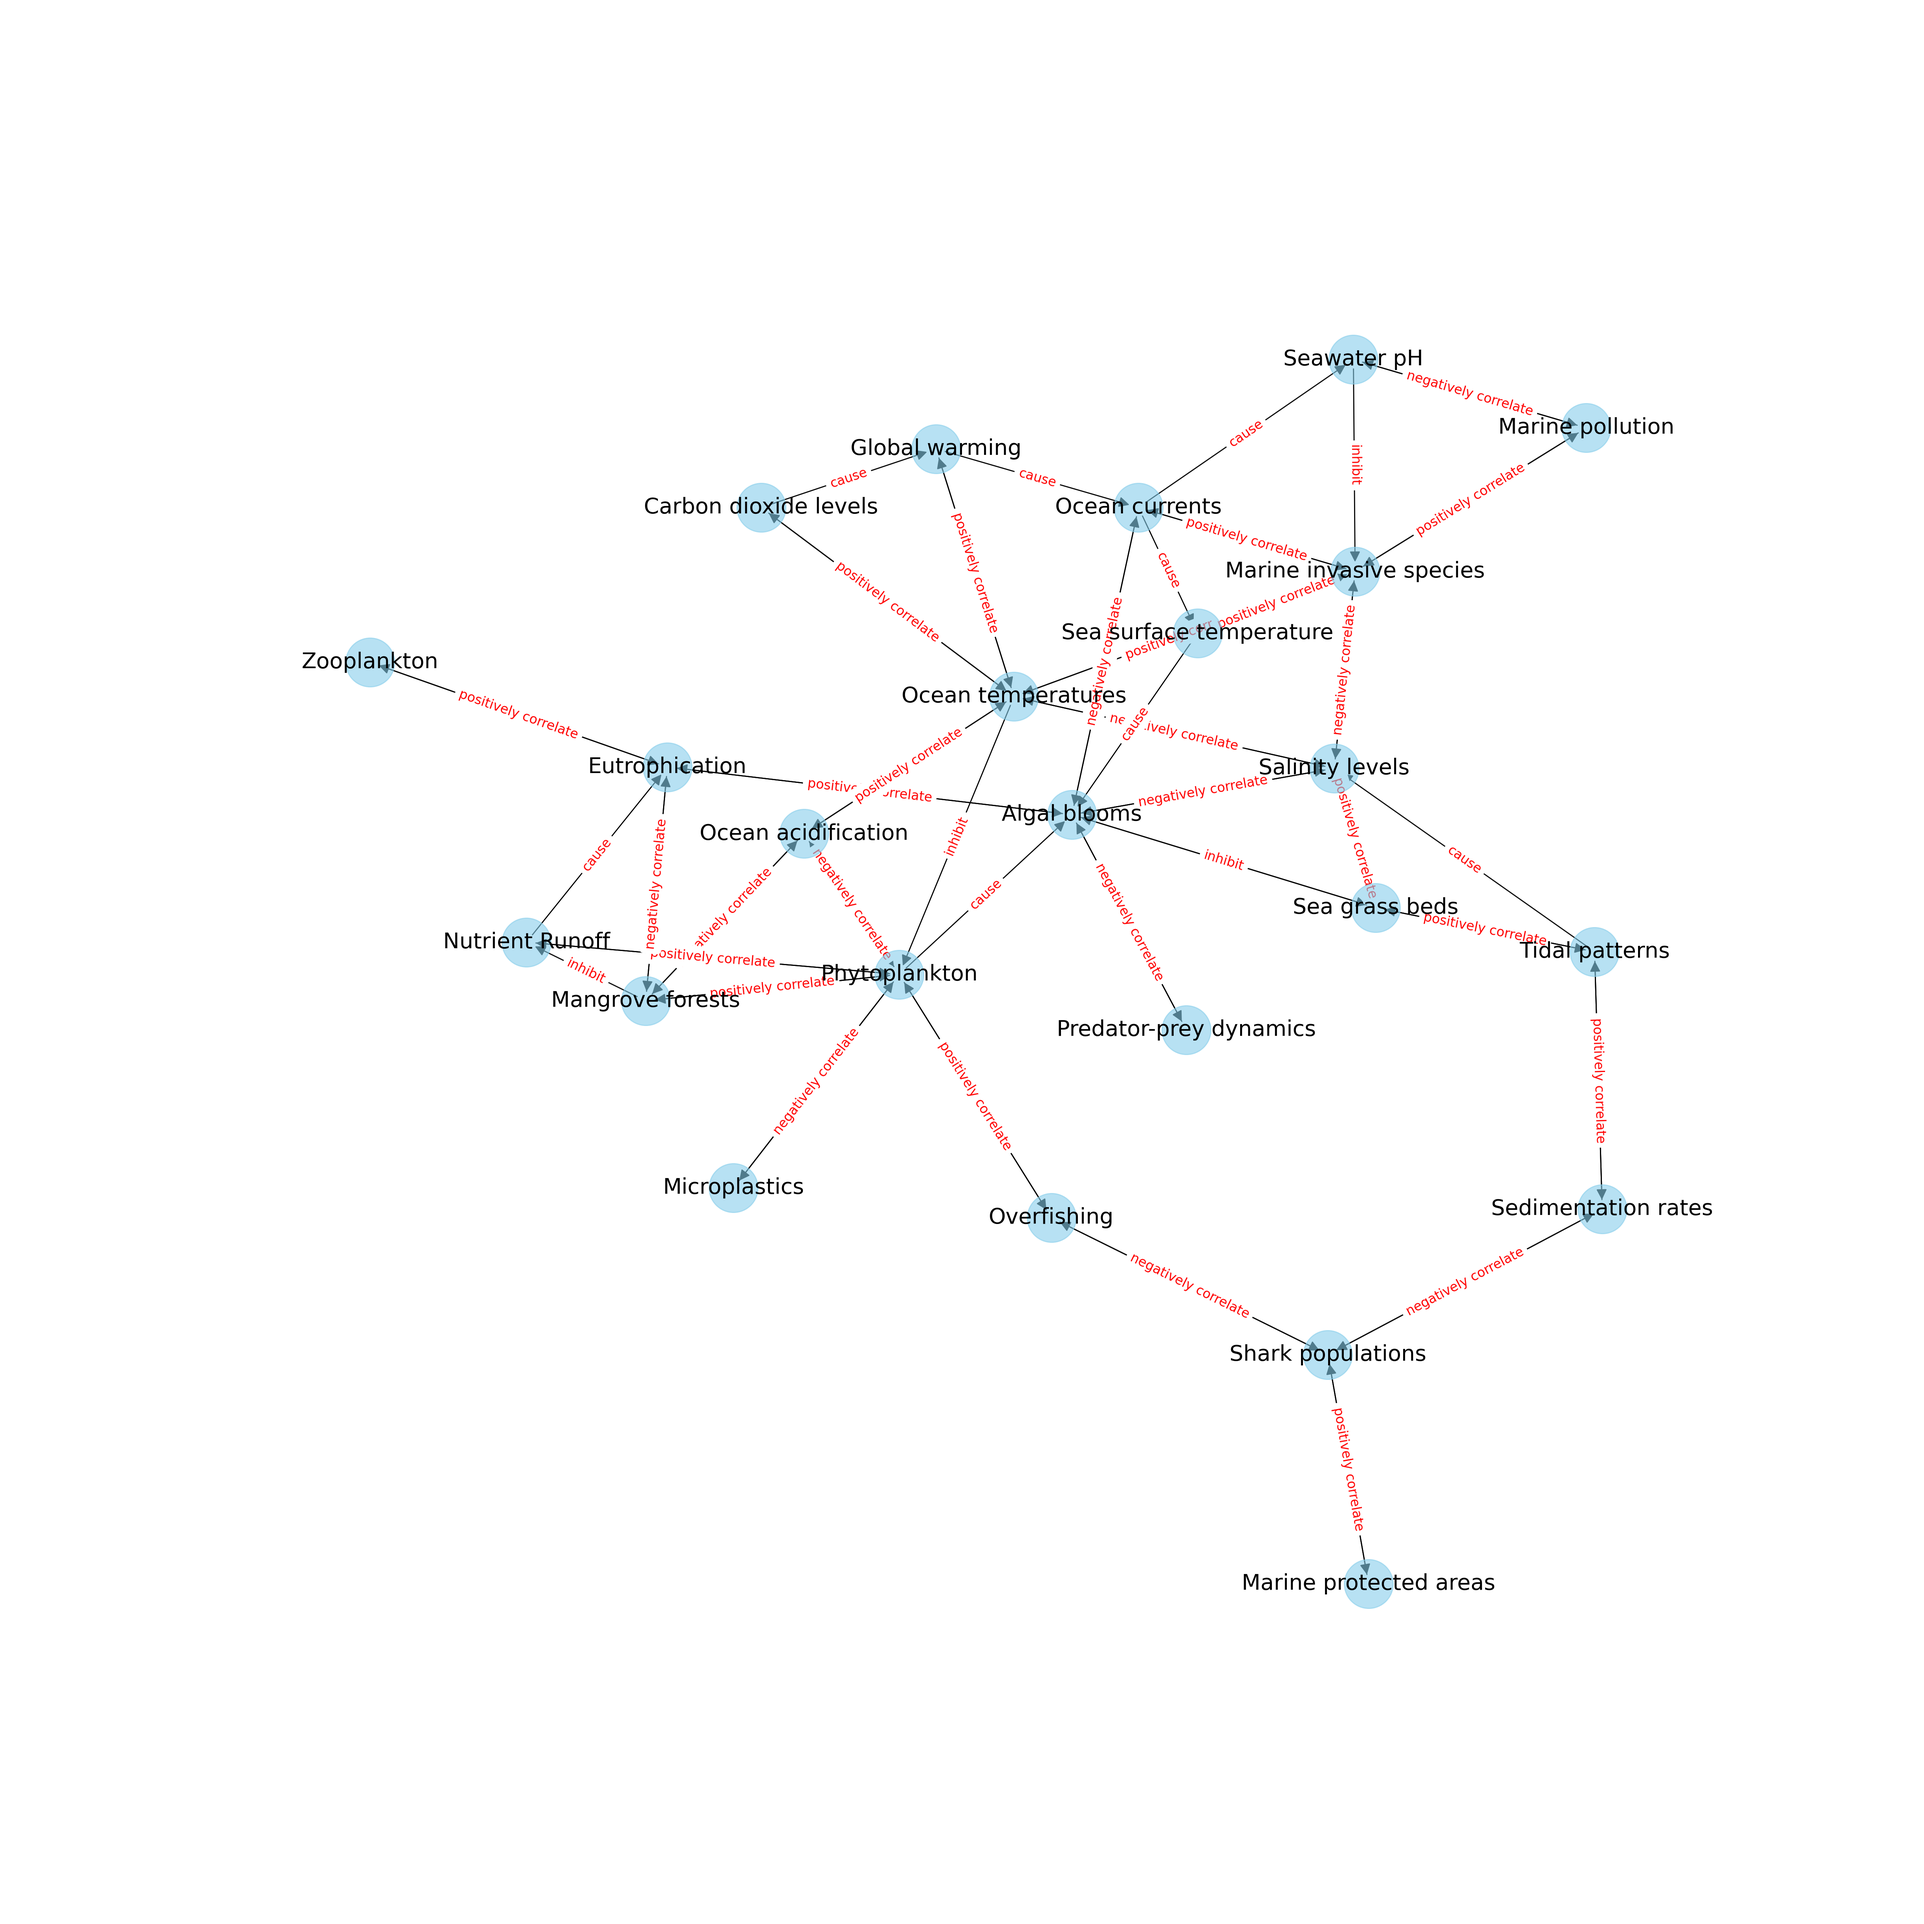
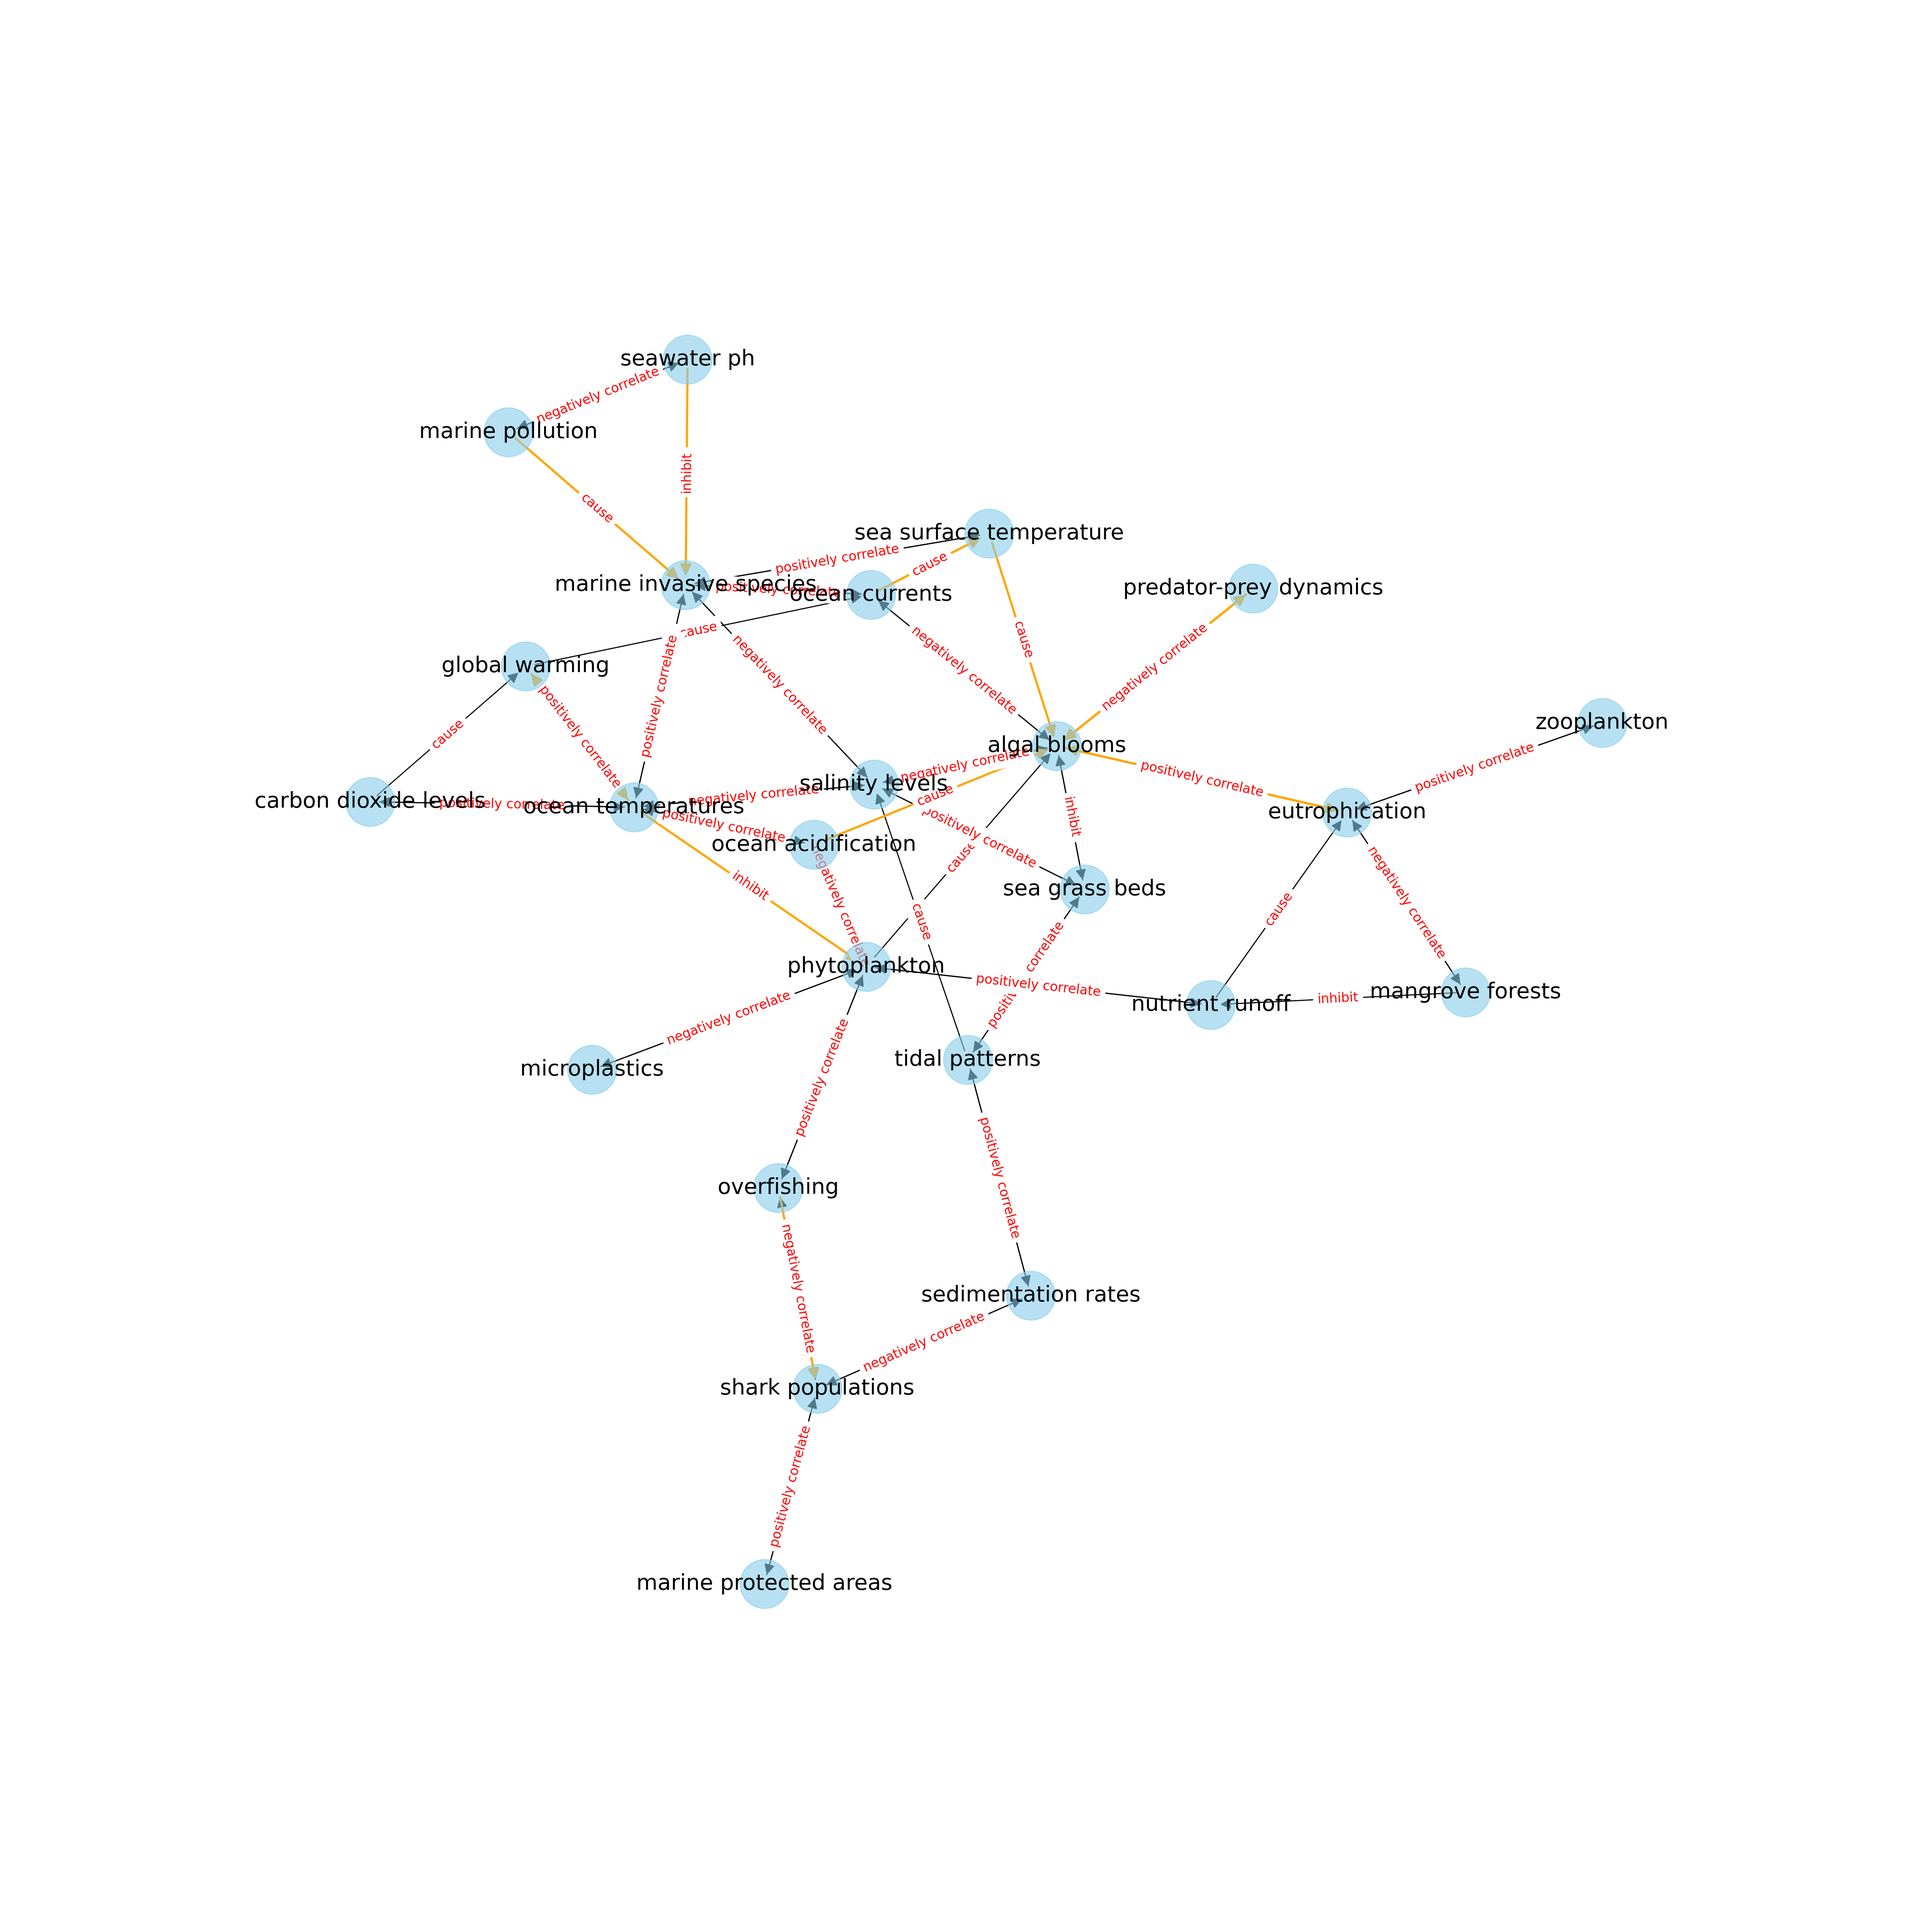
Added new plotting code; make lowercase default

diff --git a/relation_suite/models/relationships.py b/relation_suite/models/relationships.py
@@ -1,7 +1,7 @@
 import json
 import networkx as nx
 import matplotlib.pyplot as plt
-from typing import Dict, Set, Tuple
+from typing import Dict, List, Optional, Set, Tuple
 from relation_suite.models.relationship_type import RelationshipType
 from networkx.drawing.nx_agraph import graphviz_layout
 from math import sqrt
@@ -16,15 +16,23 @@ class Relationships:
     }
 
     def __init__(
-        self, relationship_types: Set[RelationshipType] = DEFAULT_RELATIONSHIPS
+        self,
+        relationship_types: Set[RelationshipType] = DEFAULT_RELATIONSHIPS,
+        lowercase: bool = True,
     ) -> None:
         self.relationship_types = {rel.name: rel for rel in relationship_types}
         self.relationships: Dict[Tuple[str, str], str] = {}
+        self.lowercase = lowercase
 
     def add(self, entity_1: str, entity_2: str, relationship: str) -> bool:
         if relationship not in self.relationship_types:
             print(f"Relationship type '{relationship}' is not allowed.")
             return False
+
+        if self.lowercase:
+            entity_1 = entity_1.lower()
+            entity_2 = entity_2.lower()
+            relationship = relationship.lower()
 
         rel_type = self.relationship_types[relationship]
         self.relationships[(entity_1, entity_2)] = relationship
@@ -107,12 +115,21 @@ class Relationships:
         return G
 
     def plot_digraph(
-        self, filename: str = "relations.png", figsize=None, dpi=200
+        self,
+        filename: str = "relations.png",
+        figsize: Optional[Tuple[float, float]] = None,
+        dpi: int = 200,
+        colored_relationships: Optional[List[Tuple["Relationships", str]]] = None,
     ) -> None:
         """
-        Plots the directed graph (DiGraph) of the relationships and saves it to a file.
+        Plots the directed graph (DiGraph) of the relationships and saves it to a file,
+        coloring edges based on provided specifications. If no specific colors are provided,
+        all edges are plotted in a default color.
 
+        :param colored_relationships: Optional list of tuples, each containing a Relationships instance and a color.
         :param filename: The filename to save the plot. Defaults to 'relations.png'.
+        :param figsize: The size of the figure (width, height) in inches.
+        :param dpi: The resolution of the figure in dots per inch.
         """
         G = self.to_digraph()
         if figsize is None:
@@ -125,12 +142,35 @@ class Relationships:
         else:
             pos = graphviz_layout(G, prog="dot")
 
+        # Default edge drawing
+        nx.draw_networkx_edges(
+            G, pos, edge_color="black", arrowstyle="-|>", arrowsize=20
+        )
+        if colored_relationships:
+            # Draw edges from specified Relationships instances in given colors
+            for relationships_instance, color in colored_relationships:
+                subgraph = relationships_instance.to_digraph()
+                for u, v, d in subgraph.edges(data=True):
+                    if (u, v) not in G.edges():
+                        raise ValueError(
+                            f"Edge from {u} to {v} does not exist in the main graph."
+                        )
+                    if G.edges[(u, v)]["relationship"] != d["relationship"]:
+                        raise ValueError(
+                            f"Edge from {u} to {v} has different relationship type."
+                        )
+                    nx.draw_networkx_edges(
+                        G,
+                        pos,
+                        edgelist=[(u, v)],
+                        width=2,
+                        edge_color=color,
+                        arrowstyle="-|>",
+                        arrowsize=20,
+                    )
+
         nx.draw_networkx_nodes(G, pos, node_size=2000, node_color="skyblue", alpha=0.6)
-
-        nx.draw_networkx_edges(G, pos, arrowstyle="-|>", arrowsize=20)
-
         nx.draw_networkx_labels(G, pos, font_size=20, font_family="sans-serif")
-
         edge_labels = {(u, v): d["relationship"] for u, v, d in G.edges(data=True)}
         nx.draw_networkx_edge_labels(
             G, pos, edge_labels=edge_labels, font_color="red", font_size=12

diff --git a/relation_suite/utils/synthetic_generator.py b/relation_suite/utils/synthetic_generator.py
@@ -65,6 +65,8 @@ class SyntheticGenerator:
         paper_details = json.loads(paper_response.choices[0].message.content)
         print(paper_details)
 
+        # TODO: reflect & revise step
+
         # Combine results
         result = {
             "title": paper_details["title"],
@@ -102,24 +104,21 @@ class SyntheticGenerator:
             entity_1 = relationship["entity_1"]
             entity_2 = relationship["entity_2"]
             proposed_relation = relationship["relationship"]
-            lowercase_entities = [entity.lower() for entity in self.entities]
             # check that entities and relationship type are valid
             if (
-                entity_1.lower() not in lowercase_entities
-                or entity_2.lower() not in lowercase_entities
+                entity_1 not in relationship["entities"]
+                or entity_2 not in relationship["entities"]
             ):
                 print(f"Invalid entities: {relationship}")
                 return False
-            if proposed_relation.lower() not in [
-                r.name.lower() for r in self.relationship_types
-            ]:
+            if proposed_relation not in [r.name for r in self.relationship_types]:
                 print(f"Invalid relationship type: {relationship}")
                 return False
             existing_relationship = self.generated_relationships.get(entity_1, entity_2)
             # check that relationship is consistent with existing relationships
             if (
                 existing_relationship != None
-                and existing_relationship.lower() != proposed_relation.lower()
+                and existing_relationship != proposed_relation
             ):
                 print(
                     f"Inconsistent relationship: {relationship}, {existing_relationship}"

diff --git a/relation_suite/utils/benchmark.py b/relation_suite/utils/benchmark.py
@@ -19,9 +19,7 @@ def extract_relationships_from_input_data(input_data: InputData) -> Relationship
             entity_1,
             entity_2,
         ), relationship in reading.relationships.get_all().items():
-            extracted_relationships.add(
-                entity_1.lower(), entity_2.lower(), relationship.lower()
-            )
+            extracted_relationships.add(entity_1, entity_2, relationship)
     return extracted_relationships
 
 
@@ -50,7 +48,7 @@ class Benchmark:
             )
 
         self.ground_truth_relationships = {
-            (entity_1.lower(), entity_2.lower()): relationship.lower()
+            (entity_1, entity_2): relationship
             for (
                 entity_1,
                 entity_2,
@@ -61,8 +59,7 @@ class Benchmark:
         self.correct_identified = {
             (entity_1, entity_2): relationship
             for (entity_1, entity_2), relationship in self.system_relationships.items()
-            if self.ground_truth_relationships.get((entity_1.lower(), entity_2.lower()))
-            == relationship.lower()
+            if self.ground_truth_relationships.get((entity_1, entity_2)) == relationship
         }
 
     def calculate_precision(self) -> float:
@@ -118,7 +115,7 @@ class Benchmark:
             ), relationship in self.ground_truth_relationships.items()
         }
         our_result = {
-            (entity_1.lower(), entity_2.lower(), relationship.lower())
+            (entity_1, entity_2, relationship)
             for (entity_1, entity_2), relationship in self.system_relationships.items()
         }
 

diff --git a/tests/test_llama_extractor.py b/tests/test_llama_extractor.py
@@ -36,7 +36,14 @@ if __name__ == "__main__":
         print(fp.__str__(), "\n")
         print("False negatives:")
         print(fn.__str__(), "\n")
-        relationships.plot_digraph(f"{SYNTHETIC_DIR}/marine_ecology/{model_name}.png")
+        relationships.plot_digraph(
+            f"{SYNTHETIC_DIR}/marine_ecology/{model_name}.png",
+            colored_relationships=[(fp, "orange")],
+        )
+        ground_truth.plot_digraph(
+            f"{SYNTHETIC_DIR}/marine_ecology/{model_name}_fn.png",
+            colored_relationships=[(fn, "blue")],
+        )
 
     for model_name, (precision, recall, f1) in performance.items():
         print(

diff --git a/relation_suite/extractors/llama_extractor.py b/relation_suite/extractors/llama_extractor.py
@@ -73,7 +73,9 @@ If you cannot answer the question, return an empty JSON object. Please provide n
 
     def extract(self, input_data: InputData) -> Relationships:
         relationships = Relationships()
-        for reading in input_data.get_data():
+        n_readings = len(input_data.get_data())
+        for i, reading in enumerate(input_data.get_data()):
+            print(f"Reading {i+1}/{n_readings}: {reading.title}")
             data = {
                 "Title": reading.title,
                 "Abstract": reading.abstract,
